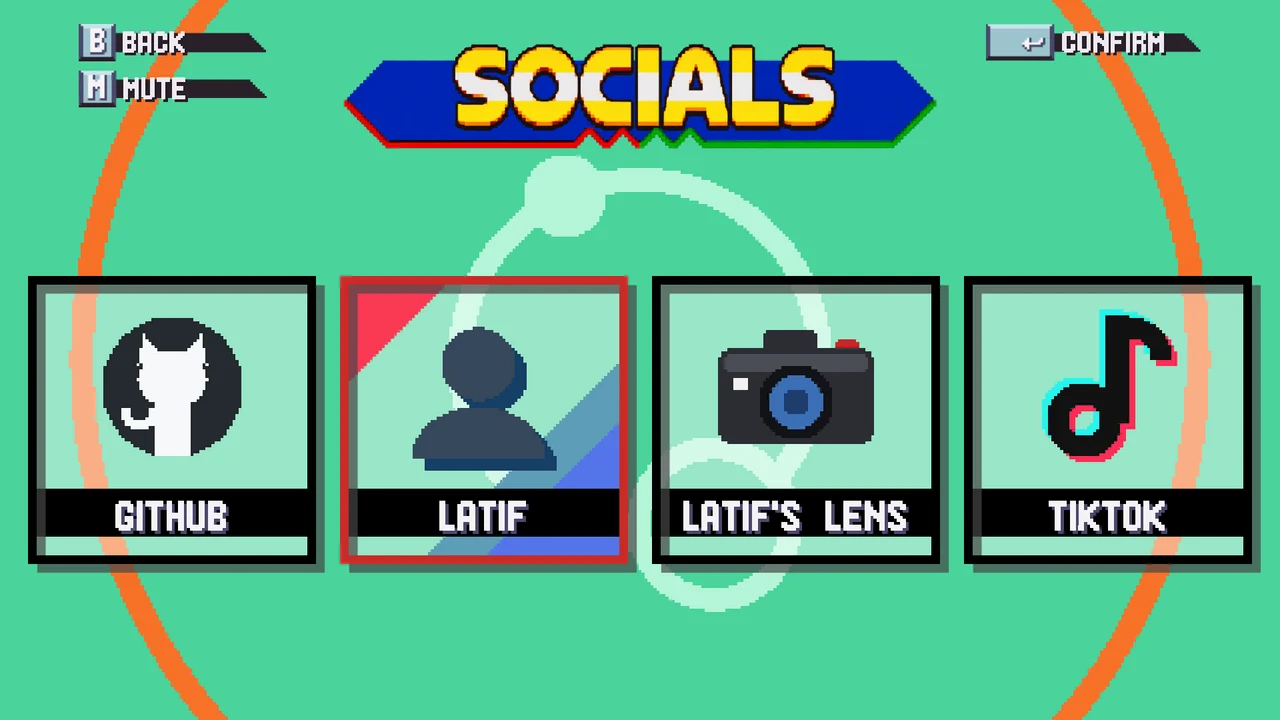
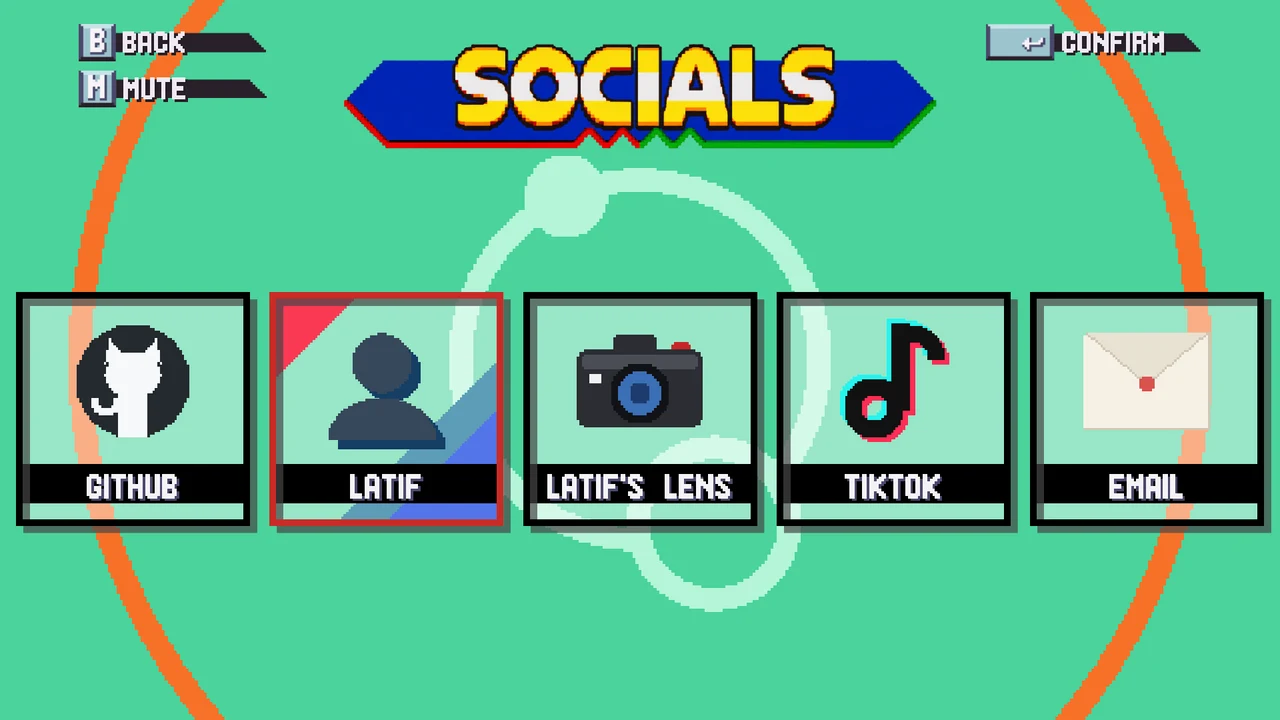
Add the user's email to the Socials page
A fifth box, an envelope with a red seal, opening a mailto: link (the user's request).
With more than four boxes the row scales down so it still fits the screen. The Portfolio
card's and the README's pictures of the page are retaken.

diff --git a/src/components/SocialSelect.ts b/src/components/SocialSelect.ts
@@ -29,10 +29,13 @@ export class SocialSelect {
     const start = first >= 0 ? first : Math.floor(socials.length / 2)
     this.index = start
     this.element.className = 'social-select'
-    // the clip's 16 px gaps fit three boxes in the 424 px screen; four need them at 8
+    // the clip's 16 px gaps fit three boxes in the 424 px screen; four need them at 8, and more
+    // than four need the whole row (boxes, gaps, pictures and names) scaled down to fit 416 px
     const gap = socials.length > 3 ? 8 : 16
+    const row = socials.length * 96 + (socials.length - 1) * gap
+    if (row > 416) this.element.style.setProperty('--px', `calc(var(--art-px) * ${(416 / row).toFixed(4)})`)
     this.element.style.setProperty('--pitch', String(96 + gap))
-    this.element.style.setProperty('--half', String((socials.length * 96 + (socials.length - 1) * gap) / 2))
+    this.element.style.setProperty('--half', String(row / 2))
     this.element.setAttribute('role', 'listbox')
     this.element.setAttribute('aria-label', 'Socials')
     this.boxes = socials.map((social, i) => this.box(social, i))

diff --git a/src/socials.ts b/src/socials.ts
@@ -1,5 +1,5 @@
 import type { PixelArt } from './utils/pixelArt'
-import { bustArt, cameraArt, githubArt, tiktokArt } from './components/socialArt'
+import { bustArt, cameraArt, envelopeArt, githubArt, tiktokArt } from './components/socialArt'
 
 /** One of the user's accounts, as a box on the Socials page (SocialSelect). */
 export interface Social {
@@ -24,4 +24,6 @@ export const SOCIALS: readonly Social[] = [
   { label: 'LATIF', name: 'Latif on Instagram', url: 'https://www.instagram.com/ahmedlatif.4/', art: bustArt, first: true },
   { label: "LATIF'S LENS", name: "Latif's Lens, photography on Instagram", url: 'https://www.instagram.com/latifs.lens/', art: cameraArt },
   { label: 'TIKTOK', name: 'Latif on TikTok', url: 'https://www.tiktok.com/@lordasdy', art: tiktokArt },
+  // (the user's email, on the site at their request)
+  { label: 'EMAIL', name: 'Email Latif', url: 'mailto:ahmedlatif261@gmail.com', art: envelopeArt },
 ]

diff --git a/src/components/SocialSelect.css b/src/components/SocialSelect.css
@@ -1,8 +1,8 @@
 /*
  * The Socials page's boxes (SocialSelect.ts), after the user's character-select clip
  * (reference/), in art pixels of the 424 × 240 screen (--px): 96 × 96 boxes, 16 apart as in the
- * clip (8 when there are four, which don't fit the screen 16 apart: SocialSelect.ts), centred,
- * their tops 92 down. A box: a 3px frame (black; selected, red pulsing to pink) round
+ * clip (8 when there are four, which don't fit the screen 16 apart; with more, --px is scaled
+ * down so the whole row fits 416 px: SocialSelect.ts), centred, their tops 92 down. A box: a 3px frame (black; selected, red pulsing to pink) round
  * a 90 × 90 inside: a see-through panel (the rings show through it) with the picture over its
  * top 68 rows, a black name strip under that (16 rows) and 6 more see-through rows. A 3px shadow
  * runs along the inside's top and left edges, and a drop shadow sits 3px down-right outside,

diff --git a/src/components/socialArt.ts b/src/components/socialArt.ts
@@ -106,3 +106,15 @@ export function instagramArt(): PixelArt {
   paint(grid, (x, y) => Math.hypot(x - 31.5, y - 15.5) <= 1.9, '#ffffff') // the dot
   return toArt(grid)
 }
+
+/** An envelope, for the user's email: cream, its flap closed over a little red seal. */
+export function envelopeArt(): PixelArt {
+  const grid = cells(52, 40)
+  const flap = (x: number, y: number) => y <= 21 - Math.abs(x - 25.5) * 0.84
+  paint(grid, roundRect(0, 0, 51, 39, 2), '#f6f1e4') // the body
+  paint(grid, (x, y) => x === 51 || y === 39, '#cfc6b4') // its far edges, a touch darker
+  paint(grid, flap, '#e8e2d2') // the flap
+  paint(grid, (x, y) => flap(x, y) && !flap(x, y + 1), '#cfc6b4') // its edge
+  paint(grid, (x, y) => Math.hypot(x - 25.5, y - 20.5) <= 3.2, '#d9534f') // the seal
+  return toArt(grid)
+}

diff --git a/CLAUDE.md b/CLAUDE.md
@@ -683,10 +683,12 @@ Component/scene CSS sits next to its `.ts` file and is imported by it.
     cut is `staircase()`, a clip-path of the art pixels whose middles the turned box
     covers, untilted into the box's own coordinates. The pin is 9 × 9 pixel art (one
     data URL per colour), beside the frame so its clip can't cut it.
-- **Socials**: four boxes (`SocialSelect`, data in src/socials.ts) after the user's clip
+- **Socials**: five boxes (`SocialSelect`, data in src/socials.ts; the fifth, the user's email as
+  a `mailto:` link with an envelope picture, is there at their request) after the user's clip
   of a character-select screen (`reference/Desktop 2026.11.16 - 05.41.25.04.mp4`),
   measured frame by frame (4 screen px per art px): 96 × 96 art px boxes (16 apart in
-  the clip; 8 here, as four don't fit the 424 px screen otherwise), tops 92 down; a
+  the clip; 8 here, as four don't fit the 424 px screen otherwise; with more than four the row's
+  `--px` is scaled down so boxes, gaps, pictures and names all shrink to fit 416 px), tops 92 down; a
   3px frame round a see-through panel (white at 43%: the rings show through), a 3px
   see-through dark shadow inside along the top and left, a drop shadow outside only
   where it sticks out (the panel is see-through), the picture over the top 68 rows,
